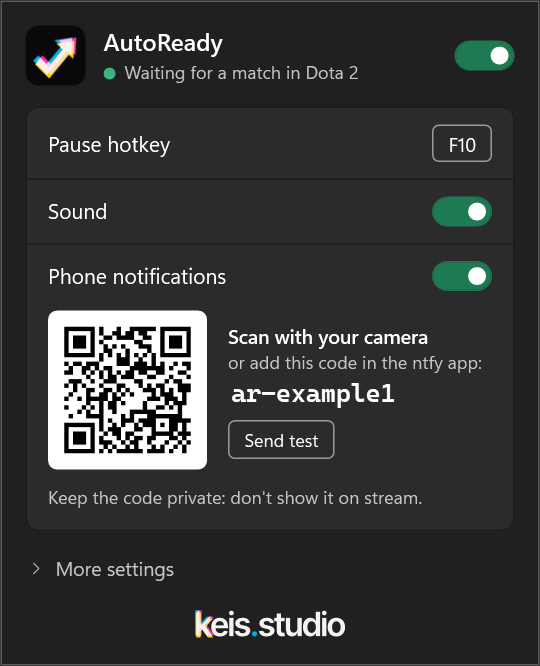
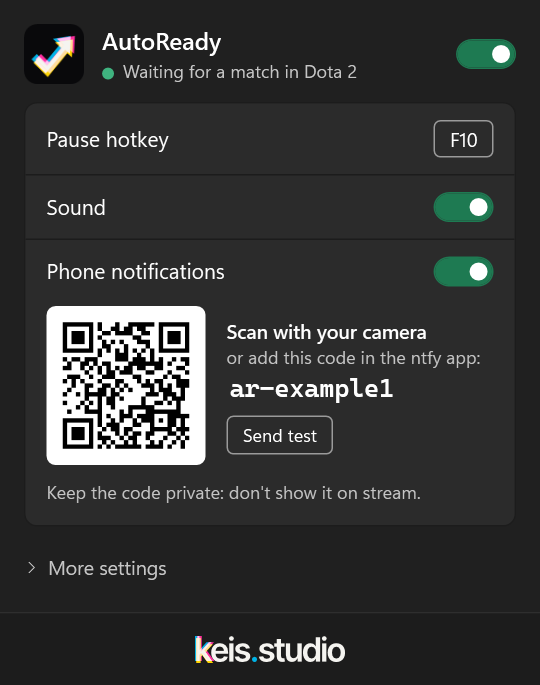
Add a footer band to the panel and tighten spacing
- Pin the keis.studio wordmark in a full-width footer, one step darker
  than the body with a 1px top line, outside the scroll area
- Let DWM draw the window border so it follows the rounded corners
  (WPF border kept as a fallback on Windows 10)
- Even 12px gaps between blocks, align "More settings" with the card
  text and give it a larger click target
- Shorten "Check for updates automatically" to "Update automatically"
- Refresh the README screenshots

diff --git a/src/Panel.cs b/src/Panel.cs
@@ -50,7 +50,7 @@ namespace AutoReady
     class Panel : Window
     {
         [DllImport("dwmapi.dll")] static extern int DwmSetWindowAttribute(IntPtr hwnd, int attr, ref int value, int size);
-        const int DWMWA_USE_IMMERSIVE_DARK_MODE = 20, DWMWA_WINDOW_CORNER_PREFERENCE = 33, DWMWCP_ROUND = 2;
+        const int DWMWA_USE_IMMERSIVE_DARK_MODE = 20, DWMWA_WINDOW_CORNER_PREFERENCE = 33, DWMWA_BORDER_COLOR = 34, DWMWCP_ROUND = 2;
 
         readonly IPanelHost host;
         readonly Theme theme;
@@ -86,21 +86,29 @@ namespace AutoReady
             Topmost = true;
             Background = theme.Background;
             BorderBrush = theme.Dark ? new SolidColorBrush(Color.FromRgb(0x3A, 0x3A, 0x3A)) : new SolidColorBrush(Color.FromRgb(0xD0, 0xD0, 0xD0));
-            BorderThickness = new Thickness(1);
+            BorderThickness = new Thickness(0);   // el borde lo dibuja DWM (ver abajo), asi no se corta en las esquinas redondeadas
             FontFamily = new FontFamily("Segoe UI Variable Text, Segoe UI");
             FontSize = 14;
             Foreground = theme.Text;
             UseLayoutRounding = true;
 
-            // Si la pantalla es baja, el contenido scrollea en vez de cortarse (MaxHeight se ajusta al abrir).
-            Content = new ScrollViewer { Content = Build(), VerticalScrollBarVisibility = ScrollBarVisibility.Auto, Focusable = false };
+            // El pie queda fijo abajo; si la pantalla es baja, solo el contenido scrollea (MaxHeight se ajusta al abrir).
+            DockPanel layout = new DockPanel { LastChildFill = true };
+            Border footer = BuildFooter();
+            DockPanel.SetDock(footer, Dock.Bottom);
+            layout.Children.Add(footer);
+            layout.Children.Add(new ScrollViewer { Content = Build(), VerticalScrollBarVisibility = ScrollBarVisibility.Auto, Focusable = false });
+            Content = layout;
 
             SourceInitialized += (s, e) =>
             {
                 IntPtr hwnd = new WindowInteropHelper(this).Handle;
                 int round = DWMWCP_ROUND, dark = theme.Dark ? 1 : 0;
+                int border = theme.Dark ? 0x3A3A3A : 0xD0D0D0;   // COLORREF (BGR): con grises da igual el orden
                 DwmSetWindowAttribute(hwnd, DWMWA_WINDOW_CORNER_PREFERENCE, ref round, 4);   // esquinas redondeadas de Windows 11
                 DwmSetWindowAttribute(hwnd, DWMWA_USE_IMMERSIVE_DARK_MODE, ref dark, 4);
+                // Windows 10 no tiene color de borde de DWM: ahi lo dibuja WPF.
+                if (DwmSetWindowAttribute(hwnd, DWMWA_BORDER_COLOR, ref border, 4) != 0) BorderThickness = new Thickness(1);
             };
             Deactivated += (s, e) => { StopHotkeyCapture(); HidePanel(); };
             // Al abrir "Mas opciones" o el QR el panel cambia de alto: se reacomoda para no salirse de la pantalla.
@@ -254,7 +262,7 @@ namespace AutoReady
             StackPanel titles = new StackPanel { VerticalAlignment = VerticalAlignment.Center };
             titles.Children.Add(new TextBlock { Text = "AutoReady", FontSize = 16, FontWeight = FontWeights.SemiBold });
             DockPanel statusLine = new DockPanel { Margin = new Thickness(0, 2, 0, 0) };   // DockPanel: el texto largo baja de renglon
-            statusDot = new Ellipse { Width = 8, Height = 8, Fill = theme.Idle, Margin = new Thickness(0, 5, 6, 0), VerticalAlignment = VerticalAlignment.Top };
+            statusDot = new Ellipse { Width = 8, Height = 8, Fill = theme.Idle, Margin = new Thickness(0, 6, 6, 0), VerticalAlignment = VerticalAlignment.Top };
             statusText = new TextBlock { Text = S.Starting, FontSize = 12, Foreground = theme.TextSecondary, TextWrapping = TextWrapping.Wrap };
             AutomationProperties.SetLiveSetting(statusText, AutomationLiveSetting.Polite);   // el lector anuncia los cambios de estado
             statusLine.Children.Add(statusDot);
@@ -274,7 +282,7 @@ namespace AutoReady
             welcome.Children.Add(new TextBlock { Text = S.WelcomeTitle, FontWeight = FontWeights.SemiBold });
             welcome.Children.Add(new TextBlock { Text = S.WelcomeText, FontSize = 12, Foreground = theme.TextSecondary, TextWrapping = TextWrapping.Wrap, Margin = new Thickness(0, 4, 0, 8) });
             welcome.Children.Add(Link(S.WelcomeDismiss, () => welcomeCard.Visibility = Visibility.Collapsed, 13));
-            welcomeCard = Wrap(welcome, new Thickness(0, 14, 0, 0));
+            welcomeCard = Wrap(welcome, new Thickness(0, 12, 0, 0));
             welcomeCard.Visibility = Visibility.Collapsed;
             root.Children.Add(welcomeCard);
 
@@ -288,7 +296,7 @@ namespace AutoReady
             };
             StackPanel prot = new StackPanel();
             prot.Children.Add(Row(protectionText, protectionButton));
-            protectionCard = Wrap(prot, new Thickness(0, 14, 0, 0));
+            protectionCard = Wrap(prot, new Thickness(0, 12, 0, 0));
             protectionCard.BorderBrush = theme.Paused;
             protectionCard.Visibility = Visibility.Collapsed;
             root.Children.Add(protectionCard);
@@ -332,16 +340,16 @@ namespace AutoReady
             main.Children.Add(phoneDetails);
             phoneToggle.Changed += on => { host.SetPhone(on); ShowPhoneDetails(on); };
             ShowPhoneDetails(host.Cfg.NotifyPhone && !host.Cfg.PhoneTested);
-            root.Children.Add(Wrap(main, new Thickness(0, 14, 0, 0)));
+            root.Children.Add(Wrap(main, new Thickness(0, 12, 0, 0)));
 
             // Mas opciones: se configuran una vez (ya se eligieron al instalar), cerradas por defecto.
-            moreChevron = new TextBlock { Text = "", FontFamily = new FontFamily("Segoe Fluent Icons, Segoe MDL2 Assets"), FontSize = 10, VerticalAlignment = VerticalAlignment.Center, Margin = new Thickness(0, 0, 8, 0), Foreground = theme.TextSecondary };
+            moreChevron = new TextBlock { Text = "", FontFamily = new FontFamily("Segoe Fluent Icons, Segoe MDL2 Assets"), FontSize = 10, VerticalAlignment = VerticalAlignment.Center, Margin = new Thickness(0, 0, 6, 0), Foreground = theme.TextSecondary };
             StackPanel moreHead = new StackPanel { Orientation = Orientation.Horizontal };
             moreHead.Children.Add(moreChevron);
             moreHead.Children.Add(new TextBlock { Text = S.MoreSettings, FontSize = 13, Foreground = theme.TextSecondary });
             ClickArea moreButton = new ClickArea(theme, moreHead, ToggleMore, S.MoreSettings)
             {
-                Margin = new Thickness(2, 14, 0, 0), Padding = new Thickness(0, 2, 6, 2), HorizontalAlignment = HorizontalAlignment.Left,
+                Margin = new Thickness(0, 12, 0, 0), Padding = new Thickness(0, 6, 8, 6), HorizontalAlignment = HorizontalAlignment.Left,
             };
             root.Children.Add(moreButton);
 
@@ -357,18 +365,28 @@ namespace AutoReady
             updateText = new TextBlock { FontSize = 12, Foreground = theme.TextSecondary, VerticalAlignment = VerticalAlignment.Center, TextWrapping = TextWrapping.Wrap };
             general.Children.Add(Row(updateText, Link(S.CheckUpdates, () => host.CheckUpdatesNow(), 12)));
             moreBox = new StackPanel { Visibility = Visibility.Collapsed };
-            moreBox.Children.Add(Wrap(general, new Thickness(0, 8, 0, 0)));
+            moreBox.Children.Add(Wrap(general, new Thickness(0, 4, 0, 0)));
             root.Children.Add(moreBox);
 
-            // Pie: el wordmark de keis.studio con la k en tres colores; a este tamano el corrimiento va exagerado
-            // (como mark-*-small de la guia) para que los colores se vean nitidos.
-            Image brand = new Image { Source = KeisMark.BuildWordmark(theme.Dark, true, 2.2), Height = 18, ToolTip = "keis.studio" };
-            root.Children.Add(new ClickArea(theme, brand, () => System.Diagnostics.Process.Start("https://keis.studio"), "keis.studio")
-            {
-                HorizontalAlignment = HorizontalAlignment.Center, Margin = new Thickness(0, 18, 0, 2),
-            });
-
             return root;
+        }
+
+        // Pie: franja un tono mas oscura con linea arriba (como Configuracion rapida de Windows 11), de borde a borde,
+        // con el wordmark de keis.studio centrado. La k en tres colores necesita 18 px y fondo neutro para verse nitida.
+        Border BuildFooter()
+        {
+            Image brand = new Image { Source = KeisMark.BuildWordmark(theme.Dark, true, 2.2), Height = 18, ToolTip = "keis.studio" };
+            ClickArea link = new ClickArea(theme, brand, () => System.Diagnostics.Process.Start("https://keis.studio"), "keis.studio")
+            {
+                HorizontalAlignment = HorizontalAlignment.Center, VerticalAlignment = VerticalAlignment.Center,
+                Padding = new Thickness(8, 4, 8, 4), CornerRadius = new CornerRadius(4),
+            };
+            return new Border
+            {
+                Height = 49, BorderThickness = new Thickness(0, 1, 0, 0), Child = link,
+                Background = new SolidColorBrush(theme.Dark ? Color.FromRgb(0x1C, 0x1C, 0x1C) : Color.FromRgb(0xEE, 0xEE, 0xEE)),
+                BorderBrush = new SolidColorBrush(theme.Dark ? Color.FromRgb(0x2E, 0x2E, 0x2E) : Color.FromRgb(0xE5, 0xE5, 0xE5)),
+            };
         }
 
         void ToggleMore()

diff --git a/src/Strings.cs b/src/Strings.cs
@@ -54,7 +54,7 @@ namespace AutoReady
 
         public static string MoreSettings { get { return T("Más opciones", "More settings"); } }
         public static string StartWithWindows { get { return T("Iniciar con Windows", "Start with Windows"); } }
-        public static string AutoUpdate { get { return T("Buscar actualizaciones automáticamente", "Check for updates automatically"); } }
+        public static string AutoUpdate { get { return T("Actualizar automáticamente", "Update automatically"); } }
         public static string CheckUpdates { get { return T("Buscar actualizaciones", "Check for updates"); } }
         public static string Version(string v, string state) { return string.Format(T("Versión {0}", "Version {0}"), v) + (state != null ? " · " + state : ""); }
         public static string UpdateTo(string tag) { return string.Format(T("Actualizar a {0}", "Update to {0}"), tag); }

diff --git a/PRIVACY.md b/PRIVACY.md
@@ -7,7 +7,7 @@ settings or logs anywhere. It only connects to the internet for the features bel
 
 | Service | What is sent | When | How to turn it off |
 |---|---|---|---|
-| **GitHub** (`api.github.com`, `github.com`) | A request for the list of AutoReady releases, and the download of a new version if you choose to update | At startup and once a day | Panel → More settings → *Check for updates automatically* (or during installation) |
+| **GitHub** (`api.github.com`, `github.com`) | A request for the list of AutoReady releases, and the download of a new version if you choose to update | At startup and once a day | Panel → More settings → *Update automatically* (or during installation) |
 | **Steam Community** (`steamcommunity.com`) | A request for the public mini-profile of the Steam account signed in on this PC, to read its status (for example "Finding A Match") | Every few seconds, only while a supported game that uses it (Dota 2) is open | During installation (*Use my Steam status*), or later with `UseSteamStatus=False` in `%APPDATA%\AutoReady\autoready.ini` |
 | **ntfy** (`ntfy.sh`) | The notification text (for example "Match accepted") sent to your private topic | Only if you turn on *Phone* notifications, and only when there's something to notify | Panel → *Phone notifications* (off by default) |
 
@@ -31,7 +31,7 @@ configuración ni tus logs a ningún lado. Solo se conecta a internet para estas
 
 | Servicio | Qué se envía | Cuándo | Cómo apagarlo |
 |---|---|---|---|
-| **GitHub** (`api.github.com`, `github.com`) | Un pedido de la lista de versiones de AutoReady, y la descarga de una versión nueva si elegís actualizar | Al iniciar y una vez por día | Panel → Más opciones → *Buscar actualizaciones automáticamente* (o al instalar) |
+| **GitHub** (`api.github.com`, `github.com`) | Un pedido de la lista de versiones de AutoReady, y la descarga de una versión nueva si elegís actualizar | Al iniciar y una vez por día | Panel → Más opciones → *Actualizar automáticamente* (o al instalar) |
 | **Comunidad de Steam** (`steamcommunity.com`) | Un pedido del mini-perfil público de la cuenta de Steam conectada en esta PC, para leer su estado (por ejemplo "Buscando partida") | Cada pocos segundos, solo mientras está abierto un juego que lo usa (Dota 2) | Al instalar (*Usar mi estado de Steam*), o después con `UseSteamStatus=False` en `%APPDATA%\AutoReady\autoready.ini` |
 | **ntfy** (`ntfy.sh`) | El texto del aviso (por ejemplo "Partida aceptada") enviado a tu canal privado | Solo si activás los avisos al *Celular*, y solo cuando hay algo para avisar | Panel → *Avisos al celular* (apagado por defecto) |
 
